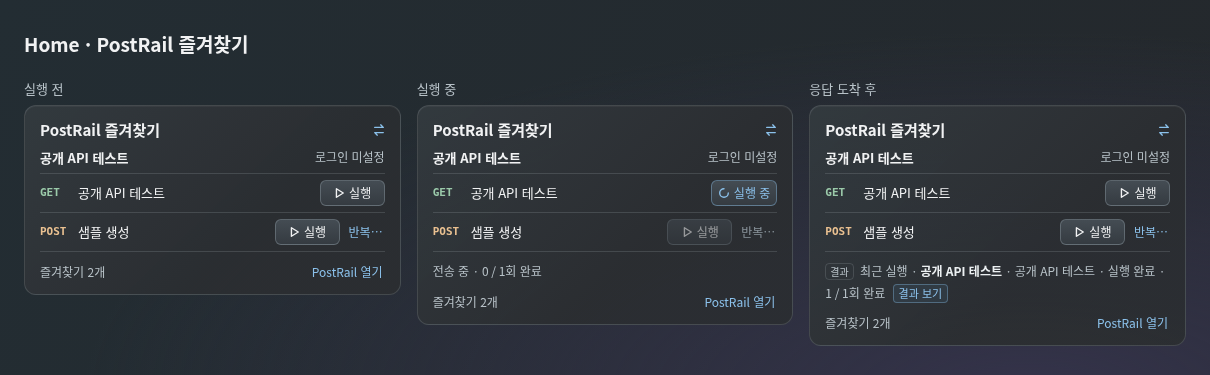
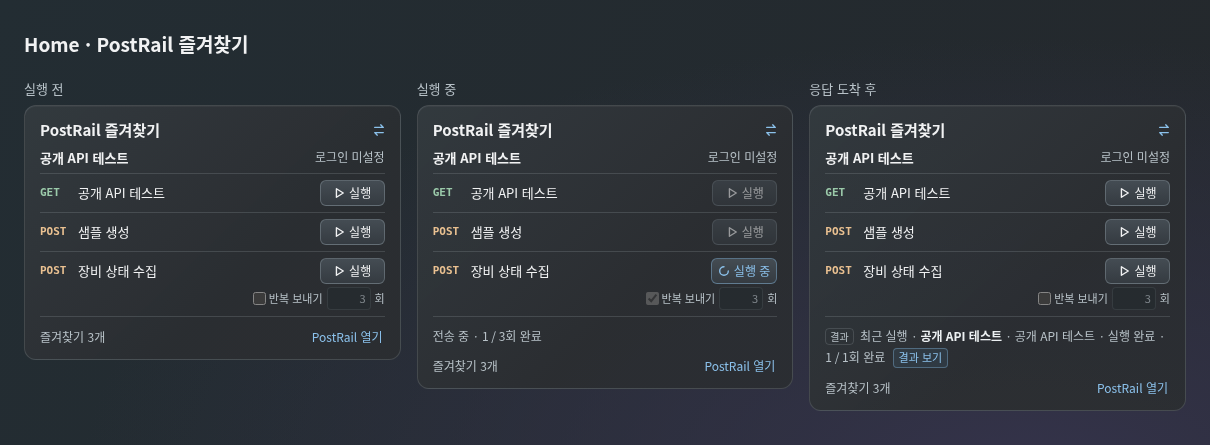
Design PostRail send-error diagnostics and inline saved favorite repeats

diff --git a/docs/design/mockups/postrail-editor/index.html b/docs/design/mockups/postrail-editor/index.html
@@ -13,10 +13,11 @@ dialog{padding:0;background:linear-gradient(138deg,#343c43,#282e34 65%);color:va
 #bodyEditor{position:absolute;inset:0;width:100%;height:100%;resize:none;background:transparent;border:0;border-radius:0;overflow:hidden;color:transparent;caret-color:var(--ink)}
 #bodyEditor::selection{color:transparent;background:#79b6e557}
 #bodyEditor:focus-visible{outline-offset:-2px}
+.send-error{position:relative;flex:none}.send-error button{width:23px;height:24px;padding:0;display:grid;place-items:center;border:0;background:transparent;color:#ff9e9a}.send-error b{border:1.5px solid currentColor;border-radius:50%;width:16px;height:16px;font:bold 12px/14px sans-serif}.send-error [role=tooltip]{display:none;position:absolute;z-index:9;top:calc(100% + 5px);left:-5px;width:max-content;max-width:min(310px,60vw);background:#282d32;border:1px solid #766265;color:#f2dedf;padding:6px 9px;border-radius:6px;box-shadow:0 4px 14px #0005;font-size:12px}.send-error:not(.dismissed):is(:hover,:focus-within) [role=tooltip]{display:block}
 </style></head><body>
 <header><div class="top"><b class="brand">≋</b> WorkRail <span class="fill"></span><span class="chrome">─ □ ×</span></div><nav><span>⌂ Home</span><span>☷ PlanRail</span><span>⬡ NodeRail</span><span>›_ TermRail</span><span class="active-nav">⇄ PostRail</span></nav></header>
 <main><aside class="surface"><label class="envlabel">환경</label><div class="chooser"><button id="environment" aria-label="실행 환경 선택"></button><div class="pop" id="envpop" hidden></div></div><div class="sideadd chooser"><input type="search" id="libraryFilter" aria-label="요청 이름 검색" placeholder="요청 이름 검색"><button class="primary" id="add" aria-label="추가 메뉴">＋ ▾</button><div class="pop" id="addpop" hidden><button id="newRequest">요청 추가</button><button id="newGroup">그룹 추가</button></div></div><div id="tree"></div></aside>
-<div class="work"><div class="compose surface"><div class="title"><small id="crumb"></small><h1 id="rname"></h1><button class="authbadge" id="badge"></button></div><div class="endpoint"><div class="chooser method"><button id="meth"></button><div id="mpop" class="pop" hidden></div></div><div class="urlbox"><div id="url" class="edit" role="textbox" aria-label="요청 URL" contenteditable="plaintext-only" spellcheck="false"></div></div><button class="primary" id="send">보내기</button></div></div>
+<div class="work"><div class="compose surface"><div class="title"><small id="crumb"></small><h1 id="rname"></h1><button class="authbadge" id="badge"></button></div><div class="endpoint"><div class="chooser method"><button id="meth"></button><div id="mpop" class="pop" hidden></div></div><span id="sendError" class="send-error" hidden><button id="inspectError" type="button" aria-label="전송 오류 · console 열기" aria-describedby="errorTip"><b aria-hidden="true">!</b></button><span role="tooltip" id="errorTip"></span></span><div class="urlbox"><div id="url" class="edit" role="textbox" aria-label="요청 URL" contenteditable="plaintext-only" spellcheck="false"></div></div><button class="primary" id="send">보내기</button></div></div>
 <div class="split" id="split"><section class="surface pane"><div class="bar"><h2>요청</h2><button data-rt="파라미터">파라미터</button><button data-rt="본문">본문</button><button data-rt="헤더">헤더</button><button data-rt="인증">인증</button></div><div class="viewport inside" id="requestFields"></div></section>
 <div class="handle" role="separator" aria-label="요청과 응답 크기 조절" aria-orientation="horizontal" tabindex="0" id="handle"></div>
 <section class="surface pane"><div class="bar"><h2>응답</h2><button id="bodyTab" class="chosen">본문</button><button id="headersTab">헤더</button><span class="fill"></span><span class="hstatus" id="status"></span><span class="meta">1회차 · 128ms</span></div><div id="bodyTools" class="body-tools"><button id="formatBody" title="편집 중인 JSON 두 칸 들여쓰기">포맷 정렬</button><button id="originalBody" title="받은 원문 보기">원문</button><button id="copyBody" aria-label="응답 본문 복사" title="응답 본문 복사"><svg width="13" height="13" viewBox="0 0 16 16" fill="none" stroke="currentColor" aria-hidden="true"><rect x="5" y="5" width="9" height="9" rx="2"/><path d="M10 4V2H2v8h2"/></svg></button><small role="status" id="copyFeedback"></small><input type="search" aria-label="응답 본문 검색" placeholder="본문 검색" id="bodySearch"><small id="hitCount" role="status"></small></div><div class="viewport responsebody"><div class="response-canvas"><pre class="code" id="response"></pre><textarea id="bodyEditor" aria-label="응답 본문 편집" wrap="off" spellcheck="false" hidden></textarea></div></div></section></div></div></main>
@@ -41,6 +42,25 @@ formExample.formRows=[{key:'title',value:'테스트 상품',enabled:true},{key:'
 const sample={id:1,firstName:'Emily',lastName:'Johnson',username:'emilys',email:'emily.johnson@example.test',role:'admin',address:{city:'Phoenix',state:'Mississippi',coordinates:{lat:-77.1621,lng:-92.0848}},userAgent:'Mozilla/5.0 (Macintosh; Intel Mac OS X 10_15_7) AppleWebKit/605.1.15 (KHTML, like Gecko) WorkRail Review Browser/132.0.0.0 Safari/605.1.15 Example-Client/1.0 Long-Value-For-Horizontal-Scrolling'};
 let payload=null;
 const logs=[];
+const sendErrors=new Map();
+function errorKey(){return JSON.stringify([reqs[idx].id,envs[curr]?.id])}
+function showSendError(){
+  const message=sendErrors.get(errorKey()) || '';
+  $('#errorTip').textContent=message;
+  $('#sendError').hidden=!message;
+  $('#sendError').classList.remove('dismissed');
+}
+function reportSendError(message){
+  sendErrors.set(errorKey(),message);
+  showSendError();
+  appendLog(new Date().toLocaleTimeString('en-GB'),'ERROR',envs[curr].name+' · '+reqs[idx].name+' · '+message);
+  $('#dot').style.background='var(--rose)';
+  logDraw();
+}
+$('#inspectError').onclick=()=>{drawer='console';logDraw()};
+$('#inspectError').onkeydown=e=>{if(e.key==='Escape')$('#sendError').classList.add('dismissed')};
+$('#inspectError').onfocus=$('#sendError').onpointerenter=()=>$('#sendError').classList.remove('dismissed');
+
 function appendLog(time, level, message) {
   logs.push([time, level, message.replace(/[\r\n\u2028\u2029]+/g, ' ')]);
   if (logs.length > 1000) logs.splice(0, logs.length - 1000);
@@ -352,7 +372,7 @@ if(rt==='파라미터'){paramsTab(el,r);return}
 if(rt==='본문'){formTab(el,r);return}
 if(rt==='인증'){el.innerHTML='<div class="mode"><span>이 요청의 인증</span><div class="seg"><button id="off">인증 없음</button><button id="on">환경 로그인 사용</button></div></div><p class="authinfo">'+(r.auth?esc(envs[curr]?.name??'환경 없음')+' · 유효한 토큰을 재사용합니다.':'환경 토큰을 보내지 않습니다. 직접 입력한 요청 헤더는 전송됩니다.')+'</p>';['on','off'].forEach(k=>{let b=$('#'+k);b.classList.toggle('chosen',r.auth===(k==='on'));b.onclick=()=>{r.auth=k==='on';requestFields()}})}
 else headerEditor(el,r);}
-function refresh(){$$('.pop').forEach(n=>n.hidden=true);envChooser();method();tree();const r=reqs[idx];if(r.m==='GET'&&rt==='본문')rt='헤더';$('#crumb').textContent=r.g+' /';$('#rname').textContent=r.name;editor($('#url'),r.url,v=>{setQueryUrl(r,v);if(rt==='파라미터')paramsTab($('#requestFields'),r)});requestFields()}
+function refresh(){showSendError();$$('.pop').forEach(n=>n.hidden=true);envChooser();method();tree();const r=reqs[idx];if(r.m==='GET'&&rt==='본문')rt='헤더';$('#crumb').textContent=r.g+' /';$('#rname').textContent=r.name;editor($('#url'),r.url,v=>{setQueryUrl(r,v);if(rt==='파라미터')paramsTab($('#requestFields'),r)});requestFields()}
 let activeHit = 0, previousPayload;
 let originalText = '', bodyDraft = '', viewingOriginal = false;
 
@@ -477,6 +497,16 @@ function logDraw() {
   }
 }
 function previewIssue(r) {
+  if(r.auth){
+    const env=envs[curr];
+    const values=Object.fromEntries(env.variables);
+    const resolve=text=>text.replace(/\$\{([\w.-]+)\}/g,(token,name)=>values[name]??token);
+    try{
+      const target=new URL(resolve(r.url)),allowed=new URL(resolve(env.api));
+      if(allowed.pathname!=='/' || allowed.search || target.origin!==allowed.origin)
+        return '요청 주소가 환경에 지정한 토큰 수신 API 주소와 일치하지 않습니다.';
+    }catch{return '요청 주소와 환경의 토큰 수신 API 주소를 확인하세요.'}
+  }
   const invalid = headerList(r.head).error;
   if (invalid) return invalid;
   const missing = pathNames(r).find(name => !r.pathValues?.[name]);
@@ -501,7 +531,7 @@ function exampleResponse(r) {
   return {id:1,title:'예시 상품'};
 }
 
-$('#send').onclick=()=>{let r=reqs[idx],env=envs[curr];if(!env)return;const issue=previewIssue(r);if(issue){$('#summary').textContent=issue;return}let need=r.url.split('?')[0].endsWith('/auth/me');resok=!need||r.auth;let time=new Date().toLocaleTimeString('en-GB');appendLog(time,'INFO',env.name+' · '+r.name+' · '+(r.auth?'환경 로그인 사용':'인증 없음'));if(r.auth){if(!env.hasToken)appendLog(time,'INFO','로그인 시작');appendLog(time,'INFO',env.hasToken?'기존 토큰 재사용':'로그인 성공 · 토큰 발급');env.hasToken=true}appendLog(time,resok?'INFO':'ERROR',r.m+' · '+(resok?'HTTP 200 · 128ms':'HTTP 401 · 인증 없이 전송'));previousPayload=undefined;payload=resok?(need?sample:exampleResponse(r)):{message:'Access Token is required'};$('#summary').textContent=resok?'실행 완료 · 1 / 1회':'실행 완료 · 실패 1건';$('#dot').style.background=resok?'var(--green)':'var(--rose)';result();logDraw()};
+$('#send').onclick=()=>{let r=reqs[idx],env=envs[curr];if(!env)return;const issue=previewIssue(r);if(issue){$('#summary').textContent='전송 전 오류 · 미전송';reportSendError(issue);return}sendErrors.delete(errorKey());showSendError();let need=r.url.split('?')[0].endsWith('/auth/me');resok=!need||r.auth;let time=new Date().toLocaleTimeString('en-GB');appendLog(time,'INFO',env.name+' · '+r.name+' · '+(r.auth?'환경 로그인 사용':'인증 없음'));if(r.auth){if(!env.hasToken)appendLog(time,'INFO','로그인 시작');appendLog(time,'INFO',env.hasToken?'기존 토큰 재사용':'로그인 성공 · 토큰 발급');env.hasToken=true}if(resok)appendLog(time,'INFO',r.m+' · HTTP 200 · 128ms');else reportSendError('HTTP 401 · 인증 없이 전송한 요청이 거부되었습니다.');previousPayload=undefined;payload=resok?(need?sample:exampleResponse(r)):{message:'Access Token is required'};$('#summary').textContent=resok?'실행 완료 · 1 / 1회':'실행 완료 · 실패 1건';$('#dot').style.background=resok?'var(--green)':'var(--rose)';result();logDraw()};
 $('#bodyTab').onclick=()=>{format='body';result()};$('#headersTab').onclick=()=>{format='headers';result()};$$('[data-d]').forEach(b=>b.onclick=()=>{drawer=drawer===b.dataset.d?'':b.dataset.d;logDraw()});$$('[data-rt]').forEach(b=>b.onclick=()=>{rt=b.dataset.rt;requestFields()});$('#badge').onclick=()=>{rt='인증';requestFields()};$('#environment').onclick=()=>pop('#envpop');$('#meth').onclick=()=>pop('#mpop');$('#add').onclick=()=>pop('#addpop');document.addEventListener('click',e=>{if(!e.target.closest('.chooser'))$$('.pop').forEach(p=>p.hidden=true)});
 function ratio(n){pct=Math.max(16,Math.min(80,n));$('#split').style.setProperty('--req',pct+'fr');$('#split').style.setProperty('--res',(100-pct)+'fr');$('#handle').setAttribute('aria-valuenow',Math.round(pct))}const h=$('#handle');h.onpointerdown=e=>{h.setPointerCapture(e.pointerId)};h.onpointermove=e=>{if(h.hasPointerCapture(e.pointerId)){let b=$('#split').getBoundingClientRect();ratio(100*(e.clientY-b.top)/b.height)}};h.onkeydown=e=>{if(['ArrowUp','ArrowDown','Home'].includes(e.key)){e.preventDefault();ratio(e.key==='Home'?30:pct+(e.key==='ArrowUp'?-3:3))}};h.ondblclick=()=>ratio(30);
 function formOpen(isGroup){groupMode=isGroup;$('#addpop').hidden=true;$('#formtitle').textContent=isGroup?'그룹 추가':'요청 추가';$('#formlabel').textContent=isGroup?'그룹 이름':'요청 이름';$('#gname').value='';$('#groupDialog').showModal();$('#gname').focus()}$('#newGroup').onclick=()=>formOpen(true);$('#newRequest').onclick=()=>formOpen(false);$('#gok').onclick=()=>{let v=$('#gname').value.trim();if(!v)return;if(groupMode){if(!gid.includes(v))gid.splice(gid.length-1,0,v)}else{reqs.push(row(v,'GET','/','미분류'));idx=reqs.length-1;rt='인증'}$('#groupDialog').close();refresh()};$('#gname').onkeydown=e=>{if(e.key==='Enter')$('#gok').click()};
@@ -512,5 +542,5 @@ if(evtab==='vars'){f.innerHTML='<div class="varrow muted"><span>이름</span><sp
 else {const field=(k,label,wide=false)=>'<div class="'+(wide?'full':'')+'"><label>'+label+'</label><div class="tokenedit edit" role="textbox" aria-label="'+label+'" contenteditable="plaintext-only" data-k="'+k+'"></div></div>';
 f.innerHTML='<h3>로그인 요청</h3><div class="formgrid">'+field('login','로그인 URL',true)+field('body','로그인 본문 · JSON',true)+'<div class="full"><label>비밀번호</label><input type="password" aria-label="비밀번호" placeholder="이번 세션에 사용할 값"><label><input type="checkbox" style="width:auto"> 이 PC에 저장</label></div></div><h3 style="margin-top:12px">발급 토큰 사용</h3><div class="formgrid">'+field('path','응답의 토큰 경로')+field('api','토큰을 받을 API 주소')+'</div><details style="margin-top:8px"><summary>고급 헤더 설정</summary><div class="formgrid">'+field('header','토큰 헤더')+field('prefix','토큰 접두어')+field('loginHeaders','로그인 헤더 · JSON',true)+'</div></details><div class="session"><span>'+(e.hasToken?'● 사용 가능한 토큰':'저장된 토큰 없음')+'</span>'+(e.hasToken?'<button class="textlink" id="clearToken">저장된 토큰 비우기</button>':'')+'</div>';$$('[data-k]').forEach(n=>editor(n,e[n.dataset.k],v=>e[n.dataset.k]=v));if($('#clearToken'))$('#clearToken').onclick=()=>{if(confirm('‘'+e.name+'’의 저장된 토큰을 비울까요? 다음 인증 요청에서 다시 로그인합니다.')){const live=envs.find(v=>v.id===e.id);if(live)live.hasToken=false;e.hasToken=false;renderEnv()}}}}
 $('#vt').onclick=()=>{evtab='vars';renderEnv()};$('#lt').onclick=()=>{evtab='login';renderEnv()};$('#manage').onclick=()=>envOpen('vars');$('#deleteEnv').onclick=()=>{if(confirm('이 환경을 삭제할까요?')){draft.splice(editing,1);editing=Math.max(0,Math.min(editing,draft.length-1));renderEnv()}};$('#saveEnv').onclick=()=>{if(draft.some(e=>!e.name.trim()))return;const activeId=envs[curr]?.id;envs=draft;curr=Math.max(0,envs.findIndex(e=>e.id===activeId));$('#envDialog').close();refresh()};$$('[data-close]').forEach(b=>b.onclick=()=>b.closest('dialog').close());
-document.addEventListener('keydown',e=>{if(e.key==='Tab')document.body.classList.add('key');if(e.key==='Escape'&&!document.querySelector('dialog[open]')){drawer='';logDraw();$$('.pop').forEach(p=>p.hidden=true)}});document.addEventListener('pointerdown',()=>document.body.classList.remove('key'));ratio(30);refresh();result();logDraw();if(location.hash==='#headers'){rt='헤더';refresh();$('#send').click()}if(location.hash==='#params'){idx=reqs.findIndex(r=>r.name==='상품 검색');rt='파라미터';refresh()}if(location.hash==='#path'){idx=reqs.indexOf(pathExample);rt='파라미터';pathExample.paramTab='path';refresh()}if(location.hash==='#form'){idx=reqs.indexOf(formExample);rt='본문';refresh()}if(location.hash==='#multipart'){idx=reqs.indexOf(formExample);formExample.bodyType='multipart';rt='본문';refresh()}if(location.hash==='#login')envOpen('login');if(location.hash==='#variables')envOpen('vars');if(location.hash==='#group')formOpen(true);
+document.addEventListener('keydown',e=>{if(e.key==='Tab')document.body.classList.add('key');if(e.key==='Escape'&&!document.querySelector('dialog[open]')){drawer='';logDraw();$$('.pop').forEach(p=>p.hidden=true)}});document.addEventListener('pointerdown',()=>document.body.classList.remove('key'));ratio(30);refresh();result();logDraw();if(location.hash==='#send-error'){reqs[idx].url='https://qa.example.test/auth/me';rt='헤더';refresh();$('#send').click()}if(location.hash==='#headers'){rt='헤더';refresh();$('#send').click()}if(location.hash==='#params'){idx=reqs.findIndex(r=>r.name==='상품 검색');rt='파라미터';refresh()}if(location.hash==='#path'){idx=reqs.indexOf(pathExample);rt='파라미터';pathExample.paramTab='path';refresh()}if(location.hash==='#form'){idx=reqs.indexOf(formExample);rt='본문';refresh()}if(location.hash==='#multipart'){idx=reqs.indexOf(formExample);formExample.bodyType='multipart';rt='본문';refresh()}if(location.hash==='#login')envOpen('login');if(location.hash==='#variables')envOpen('vars');if(location.hash==='#group')formOpen(true);
 </script></body></html>

diff --git a/docs/design/mockups/postrail-editor/home-favorite-result.html b/docs/design/mockups/postrail-editor/home-favorite-result.html
@@ -10,6 +10,7 @@ h3{margin:0;font-size:15px}.heading,.env,.row,.meta{display:flex;align-items:cen
 .method{color:#9bcaaa;font:700 11px/1.6 Consolas,monospace;min-width:31px}.method.post{color:#eac191}
 button{font:inherit;color:inherit;cursor:pointer}.run{min-width:65px;display:inline-flex;align-items:center;justify-content:center;gap:4px;background:linear-gradient(#444c53,#353b41);border:1px solid #84909880;border-radius:6px;font-size:12px;padding:3px 6px}.run:disabled{cursor:default;opacity:.55}.run.active:disabled{opacity:1;color:var(--accent);border-color:#8bc1eb68}.icon{display:inline-block;width:12px;height:12px;flex:none}.spin{animation:turn 1s linear infinite}@keyframes turn{to{transform:rotate(1turn)}}@media(prefers-reduced-motion:reduce){.spin{animation:none}}
 .link{background:transparent;border:0;color:var(--accent);font-size:12px;padding:0 2px}.link:disabled{color:#8b959c;cursor:default}.summary{color:var(--muted);font-size:12px;line-height:1.8;margin:8px 0 0;overflow-wrap:anywhere}.summary strong{color:#ecf0f2}.pill{font-size:10px;line-height:1.5;border:1px solid var(--line);border-radius:4px;padding:0 4px;margin-right:3px;white-space:nowrap}.inspect{color:var(--accent);border-color:#8bc1eb5c;background:#38506355;font-size:11px;line-height:1.6;margin:0 0 0 4px;padding:0 5px}.inspect:hover,.inspect:focus-visible{background:#44668177}.meta{margin-top:11px}.detail{max-width:700px;margin-top:10px}pre{overflow:auto;background:#21272c;border-radius:6px;padding:12px}button:focus-visible{outline:2px solid var(--accent);outline-offset:2px}[hidden]{display:none!important}@media(max-width:850px){.board{grid-template-columns:1fr}main{max-width:420px;padding:18px 14px}}
+.row{display:grid;grid-template-columns:31px minmax(0,1fr) auto;column-gap:7px;row-gap:3px}.row .run{justify-self:end}.repeat-form{grid-column:2/-1;justify-self:end;display:flex;align-items:center;gap:4px;color:var(--muted);font-size:11px}.repeat-form label{display:flex;align-items:center;gap:3px}.repeat-form input[type=checkbox]{accent-color:var(--accent);margin:0}.repeat-form input[inputmode]{width:4em;font:inherit;text-align:end;padding:2px 4px;border-radius:4px;border:1px solid var(--line);color:inherit;background:#232a2e}.repeat-form input:disabled{opacity:.6}.repeat-form input[aria-invalid=true]{border-color:#ea999b}.count-error{grid-column:2/-1;justify-self:end;font-size:11px;color:#ffadaa}
 </style>
 <main><section id="home"><h1>Home · PostRail 즐겨찾기</h1><div class="board"></div></section>
 <section id="destination" hidden><button class="link" id="back">‹ Home</button><h1 id="destination-title" tabindex="-1">PostRail</h1><div class="detail"><h3 id="target"></h3><p id="context"></p><h3>응답 본문</h3><pre id="body"></pre></div></section></main>
@@ -20,21 +21,22 @@ const icons={
  rail:'<path d="M2 4h10L9 1m3 9H2l3 3"/>'
 };
 const svg=k=>'<svg aria-hidden="true" class="icon '+(k==='load'?'spin':'')+'" viewBox="0 0 14 14" fill="none" stroke="currentColor" stroke-width="1.6" stroke-linecap="round" stroke-linejoin="round">'+icons[k]+'</svg>';
-const requests=[{name:'공개 API 테스트',method:'GET'},{name:'샘플 생성',method:'POST'}];
+const requests=[{name:'공개 API 테스트',method:'GET'},{name:'샘플 생성',method:'POST'},{name:'장비 상태 수집',method:'POST',savedCount:'3'}];
 let returnTo;
 const board=document.querySelector('.board');
 function demo(label,initial){
  const area=document.createElement('section');
- area.innerHTML='<h2></h2><article class="card"><div class="heading"><h3>PostRail 즐겨찾기</h3>'+svg('rail')+'</div><div class="env"><strong>공개 API 테스트</strong><span>로그인 미설정</span></div><div class="rows"></div><div class="summary" role="status"></div><div class="meta"><span>즐겨찾기 2개</span><button class="link generic">PostRail 열기</button></div></article>';
+ area.innerHTML='<h2></h2><article class="card"><div class="heading"><h3>PostRail 즐겨찾기</h3>'+svg('rail')+'</div><div class="env"><strong>공개 API 테스트</strong><span>로그인 미설정</span></div><div class="rows"></div><div class="summary" role="status"></div><div class="meta"><span>즐겨찾기 3개</span><button class="link generic">PostRail 열기</button></div></article>';
  area.querySelector('h2').textContent=label;board.append(area);
  const summary=area.querySelector('.summary');
- let state=initial,active=0,count=1,completed=initial==='done'?1:0,serial=1;
+ let state=initial,active=initial==='busy'?2:0,count=initial==='busy'?3n:1n,completed=initial==='idle'?0n:1n,serial=1;
+ const repeatDraft={enabled:initial==='busy',count:requests[2].savedCount};
  function open(btn,detail){
    returnTo=btn;document.querySelector('#home').hidden=true;
    document.querySelector('#destination').hidden=false;
    document.querySelector('#target').textContent=detail?requests[active].name:'저장한 요청';
    document.querySelector('#context').textContent=detail?'공개 API 테스트 · '+completed+'회차 · HTTP 200':'PostRail 작업 화면';
-   document.querySelector('#body').textContent=detail?JSON.stringify({ok:true,iteration:completed},null,2):'응답을 선택하세요.';
+   document.querySelector('#body').textContent=detail?JSON.stringify({ok:true,iteration:String(completed)},null,2):'응답을 선택하세요.';
    document.querySelector('#destination-title').focus();
  }
  function draw(){
@@ -42,19 +44,40 @@ function demo(label,initial){
    const rows=area.querySelector('.rows');rows.replaceChildren();
    requests.forEach((r,i)=>{
      const row=document.createElement('div');row.className='row';
-     row.innerHTML='<b class="method '+(i?'post':'')+'">'+r.method+'</b><span class="name">'+r.name+'</span><button class="run"></button>'+(i?'<button class="link repeat">반복…</button>':'');
+     row.innerHTML='<b class="method '+(r.method==='POST'?'post':'')+'">'+r.method+'</b><span class="name">'+r.name+'</span><button class="run"></button>';
      const button=row.querySelector('.run'),loading=active===i&&busy;
-     button.innerHTML=svg(loading?'load':'play')+(loading?'실행 중':'실행');button.disabled=busy;button.classList.toggle('active',loading);
-     button.setAttribute('aria-label',r.name+' '+(loading?'실행 중':'실행'));button.onclick=()=>start(i,1);
-     if(i){const repeat=row.querySelector('.repeat');repeat.disabled=busy;repeat.onclick=()=>{const n=prompt('반복 횟수','3');if(n&&/^[1-9][0-9]*$/.test(n)&&Number.isSafeInteger(Number(n)))start(i,Number(n))}}
+     button.disabled=busy;button.classList.toggle('active',loading);
+     function label(){
+       const text=loading?'실행 중':r.savedCount && repeatDraft.enabled?'반복 실행':'실행';
+       button.innerHTML=svg(loading?'load':'play')+text;
+       button.setAttribute('aria-label',r.name+' '+text);
+     }
+     label();
+     button.onclick=()=>start(i,r.savedCount && repeatDraft.enabled?BigInt(repeatDraft.count):1n);
+     if(r.savedCount){
+       const form=document.createElement('div');
+       form.className='repeat-form';
+       form.innerHTML='<label><input type="checkbox">반복 보내기</label><input inputmode="numeric" aria-label="반복 횟수"><span>회</span>';
+       const check=form.querySelector('input[type=checkbox]'),field=form.querySelector('[inputmode]');
+       const error=document.createElement('small');error.className='count-error';error.textContent='횟수는 양의 정수로 입력하세요.';error.setAttribute('role','status');
+       check.checked=repeatDraft.enabled;check.disabled=busy;field.value=repeatDraft.count;
+       function sync(){
+         const invalid=repeatDraft.enabled && !/^[1-9][0-9]*$/.test(repeatDraft.count);
+         field.disabled=busy || !repeatDraft.enabled;field.setAttribute('aria-invalid',String(invalid));
+         error.hidden=!invalid;button.disabled=busy || invalid;label();
+       }
+       check.onchange=()=>{repeatDraft.enabled=check.checked;sync()};
+       field.oninput=()=>{repeatDraft.count=field.value;sync()};
+       sync();row.append(form,error);
+     }
      rows.append(row);
    });
    summary.hidden=state==='idle';
    summary.innerHTML=busy?'전송 중 · '+completed+' / '+count+'회 완료':state==='done'?'<span class="pill">결과</span> 최근 실행 · <strong>'+requests[active].name+'</strong> · 공개 API 테스트 · 실행 완료 · '+completed+' / '+count+'회 완료 <button class="pill inspect">결과 보기</button>':'';
    const inspect=summary.querySelector('button');if(inspect)inspect.onclick=()=>open(inspect,true);
  }
- function start(i,n){active=i;count=n;completed=0;state='busy';const id=++serial;draw();
-   const tick=()=>{if(id!==serial)return;completed++;if(completed===count)state='done';draw();if(state==='busy')setTimeout(tick,700)};setTimeout(tick,1000)}
+ function start(i,n){active=i;count=n;completed=0n;state='busy';const id=++serial;draw();
+   const tick=()=>{if(id!==serial)return;completed++;if(completed===count){state='done';repeatDraft.enabled=false;repeatDraft.count=requests[2].savedCount;}draw();if(state==='busy')setTimeout(tick,700)};setTimeout(tick,1000)}
  area.querySelector('.generic').onclick=e=>open(e.currentTarget,false);
  draw();
 }

diff --git a/docs/superpowers/specs/2026-11-20-postrail-editor-design.md b/docs/superpowers/specs/2026-11-20-postrail-editor-design.md
@@ -68,6 +68,14 @@ Postman의 공식 Collection SDK는 URL의 쿼리 목록과 경로 변수를 분
 - **파일**. OS 파일 선택으로 받은 원본 경로는 메인 프로세스에서 이 PC의 요청과 연결하고, 화면에는 파일 이름을 표시한다. 저장 후 재실행하면 같은 위치의 파일을 사용한다. 파일이 없거나 읽을 수 없으면 로그인·인덱스 예약·API 호출 전에 해당 행에서 다시 선택하도록 한다. 임의의 경로 텍스트나 환경 변수에서 파일을 열지 않는다. 전송·반복·Home 즐겨찾기에서 같은 검증을 사용한다. 파일 내용·전체 경로·쿼리값은 console에 기록하지 않는다.
 - **호환 및 검증**. URL·JSON으로 저장한 기존 요청은 이전 동작으로 열린다. 저장·복제·Home 실행 시 선택 모드, 파라미터와 사용 여부를 보존한다. 인덱스는 기존 JSON 문자열의 `${index}`에서만 소비한다. 일반 반복 전송은 새 본문 방식에서도 명시한 횟수를 따른다. 토큰을 보낼 수 있는 origin, URL에 넣을 수 없는 보호 변수와 비밀 키 검사는 파라미터가 모두 반영된 실제 주소에도 적용한다. 같은 PC에서 파일이 사라진 경우, 한 요청에서 같은 이름의 파일 파트 둘, 폼 값이 URL에 섞이지 않는 경우, 직접 지정한 MIME과 생성된 multipart boundary가 일치하는 경우를 인수 검사에 포함한다.
 
+## 전송 오류 표시
+
+보내기 오류는 해당 요청·실행 환경의 메서드 선택과 URL 입력 사이에 빨간 느낌표로 표시한다. 마우스를 올리거나 키보드로 포커스하면 실제 오류 설명이 툴팁으로 나타난다. 오류 한 건당 console에 같은 설명을 빨간 `ERROR` 한 줄로 남긴다. 장문의 공통 배너는 표시하지 않는다. console은 기존 열림 상태를 유지하며, 느낌표 클릭·Enter·Space로 footer의 console을 연다. [오류·툴팁·console 시안](../../design/mockups/postrail-editor/send-error.png) · [오류를 재현하는 조작 시안](../../design/mockups/postrail-editor/index.html#send-error)
+
+- 토큰 수신 API 주소와 요청 주소가 다르면 ‘요청 주소가 환경에 지정한 토큰 수신 API 주소와 일치하지 않습니다.’를 기록한다. 이 오류는 토큰을 발급받거나 본 요청을 보내기 전의 검증 실패다. 상태 줄에는 ‘전송 전 오류 · 미전송’만 표시한다. 표시는 진단 방식만 바꾸며 기존 전송 제한을 유지한다.
+- 인증 실패, 수신 HTTP 오류, 시간 초과도 같은 위치에서 설명한다. 서버가 보낸 본문은 해당 회차의 응답에서 확인한다. console·툴팁은 앱이 만든 오류 설명을 사용하고, 실제 비밀번호·토큰·쿼리값·본문·전체 파일 경로를 포함하지 않는다.
+- 다른 요청이나 환경에는 해당 조합의 오류만 표시한다. 같은 조합으로 다시 보내 성공하면 아이콘을 지우고 console 기록은 기존 세션 보관 규칙을 따른다. 전송 전 오류가 실행 ID 없이 발생해도 기록한다.
+
 ## Home 즐겨찾기의 실행 상태와 결과 이동
 
 2026-11-21 추가 협의. Home에서 저장 요청을 실행하면 같은 행에서 진행을 확인하고 완료된 실행의 응답으로 바로 이동한다. 기존 최대 5개, 표시된 환경에서의 단건 실행, POST의 명시적 반복, 하단 ‘PostRail 열기’는 그대로 사용한다. [세 상태 비교](../../design/mockups/postrail-editor/home-favorite-result.png) · [조작 시안](../../design/mockups/postrail-editor/home-favorite-result.html)
@@ -79,6 +87,8 @@ Postman의 공식 Collection SDK는 URL의 쿼리 목록과 경로 변수를 분
 | 완료·실패·중지 | 같은 자리에 재생 아이콘과 ‘실행’ 복원 | 작은 ‘결과’ 배지, 최근 실행 · **요청명** · 실행 당시 환경명 · 상태 · 처리 건수, 클릭 가능한 ‘결과 보기’ 배지를 표시한다. 요청명과 환경명이 같아도 각각 표시한다. |
 
 - ‘결과’는 상태 표식이고 ‘결과 보기’는 키보드로 실행 가능한 버튼이다. 기존 Home 유리 배경과 글꼴을 사용한다. 행 높이는 실행 중에도 같고, 좁은 위젯에서 긴 결과 문구는 배지를 밀어내지 않도록 줄바꿈한다. 모션 감소 설정에서는 진행 아이콘과 문구를 정지 상태로 표시한다.
+- **반복 입력 대상**. PostRail 편집기에서 POST의 ‘반복 보내기’를 켜고 양의 정수 횟수와 함께 ‘변경 저장’한 요청만 Home 실행 버튼 아래에 작은 ‘반복 보내기’ 체크박스와 횟수 입력을 한 줄로 둔다. 일반 POST·GET·DELETE·기존 반복 설정이 없는 요청은 실행 버튼만 표시한다. 저장할 때 반복을 끄거나 메서드를 GET·DELETE로 바꾸면 Home에서도 반복 입력을 숨긴다. 한 번 반복 실행한 사실만으로 저장 설정을 바꾸지 않는다.
+- **Home에서 보내기**. 저장 횟수를 표시하되 체크는 끈 상태로 시작한다. 예를 들어 저장값이 3회여도 ‘실행’은 1회다. 체크하면 횟수 칸이 활성화되고 같은 버튼이 ‘반복 실행’으로 바뀐다. 양의 정수만 허용하며 빈 값·0·소수이면 그 행에서 안내하고 실행을 막는다. 팝업 없이 현재 입력한 횟수로 실행하고 실행 중에는 조작을 잠근다. Home에서 조정한 값은 편집기의 저장값에 쓰지 않는다. 시안에서는 실행이 끝나면 체크를 끄고 저장 횟수로 돌아간다.
 - **사용자 선택**. 단건은 1회차, 반복은 **마지막으로 처리한 회차**를 연다. 5회 중 3회 처리 후 중지했다면 3회차를 연다. 중간 실패 건수는 요약에 남기고 이전 회차는 PostRail의 ‘회차별 결과’에서 고른다.
 - 실행 ID, 저장 요청 ID, 회차를 함께 전달해 PostRail의 해당 실행 응답 본문으로 이동한다. 이동 자체는 요청을 다시 보내거나 실행 환경을 변경하지 않는다. ‘PostRail 열기’는 별도 일반 이동으로 남긴다. 다른 요청의 편집 초안이 있으면 보존하고, 필요하면 요청을 바꾸기 전에 기존 미저장 처리 절차를 거친다.
 - 인증 단계에서 중지되어 처리 회차가 0인 경우에는 해당 실행의 실패 사유와 미전송 상태를 연다. 사전 검증에서 실행 자체가 만들어지지 않았다면 Home에 원인을 표시한다. 새 실행이 이전 임시 결과를 교체했거나 결과 읽기에 실패하면 해당 결과를 열 수 없다고 표시한다. 다른 실행의 응답으로 대체하지 않는다.

diff --git a/docs/wayfinder/STATUS.md b/docs/wayfinder/STATUS.md
@@ -1,6 +1,6 @@
 # 진행 상태
 
-2026-11-21 **PostRail 편집기와 Home 즐겨찾기 통합 검토.** Home의 행별 실행 표시, 작은 결과 배지, 해당 실행으로 이동하는 결과 보기 시안을 추가했다. 반복 실행은 마지막 처리 회차를 열기로 협의했다. 전체 설계 검토 후 함께 구현한다. [추가 설계와 시안](../superpowers/specs/2026-11-20-postrail-editor-design.md#home-즐겨찾기의-실행-상태와-결과-이동)
+2026-11-21 **PostRail 편집기와 Home 즐겨찾기 통합 검토.** Home의 행별 실행 표시, 작은 결과 배지, 해당 실행으로 이동하는 결과 보기 시안을 추가했다. 반복 실행은 마지막 처리 회차를 연다. 전송 오류는 메서드와 URL 사이의 느낌표·툴팁 및 console에 표시하고, 아이콘을 누르면 console을 연다. Home의 횟수 입력은 반복으로 저장한 POST만 제공하며 처음에는 체크 해제·저장 횟수로 표시한다. 전체 설계 검토 후 함께 구현한다. [추가 설계와 시안](../superpowers/specs/2026-11-20-postrail-editor-design.md#home-즐겨찾기의-실행-상태와-결과-이동)
 
 2026-11-20 **PostRail 편집기 후속 설계 · 헤더·응답 도구·요청 이름 검색 보강, 전체 승인 대기.** 넓은 환경 관리 창, 요청별 인증 표시, 환경별 토큰 비우기 및 세션 console 최근 1,000줄을 협의했다. 사용자는 쿼리·경로·POST 폼과 같은 PC의 첨부 경로 재사용을 선택했다. 헤더 표/raw 전환, 응답 본문 직접 편집과 수정본 복사, 수신 원문 조회와 독립된 JSON 포맷 정렬, 요청 이름만 검색하는 시안을 추가했다. [설계·시안과 인수 기준](../superpowers/specs/2026-11-20-postrail-editor-design.md)
 
